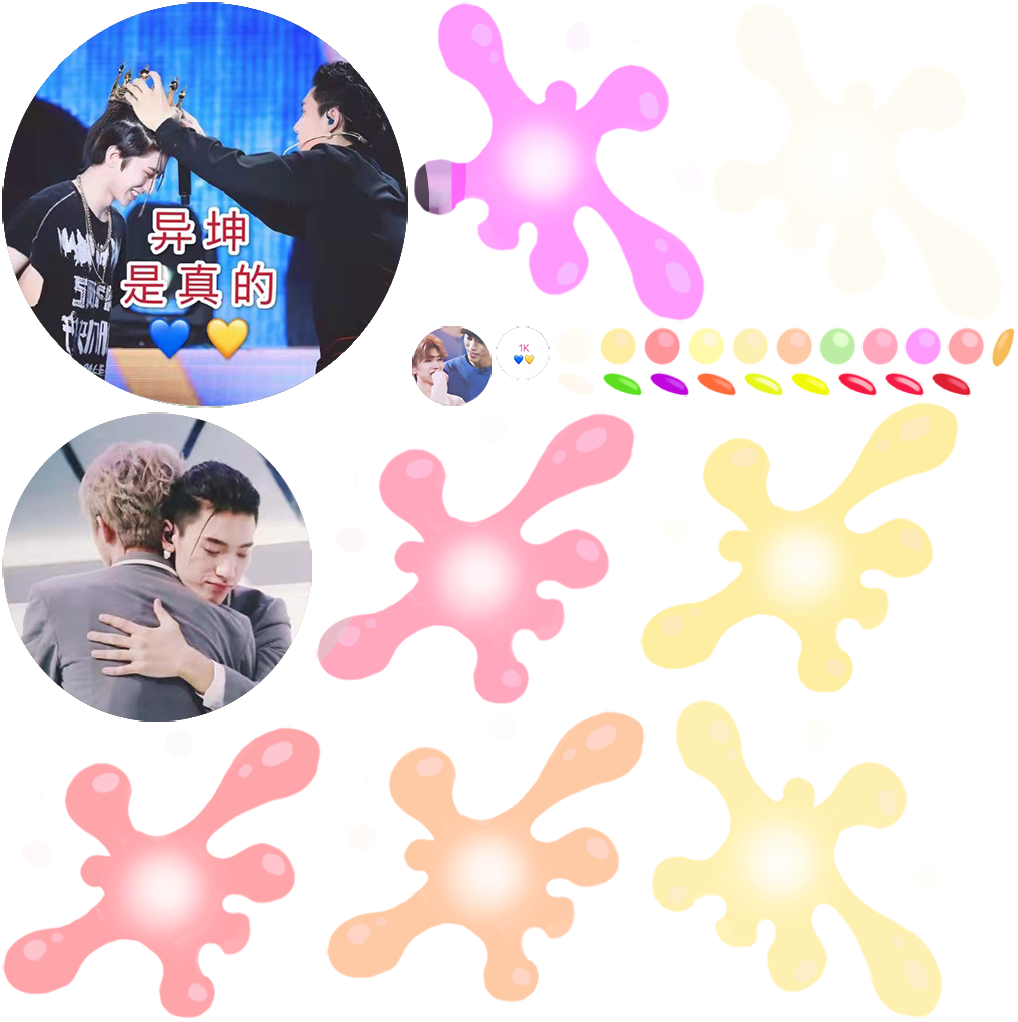
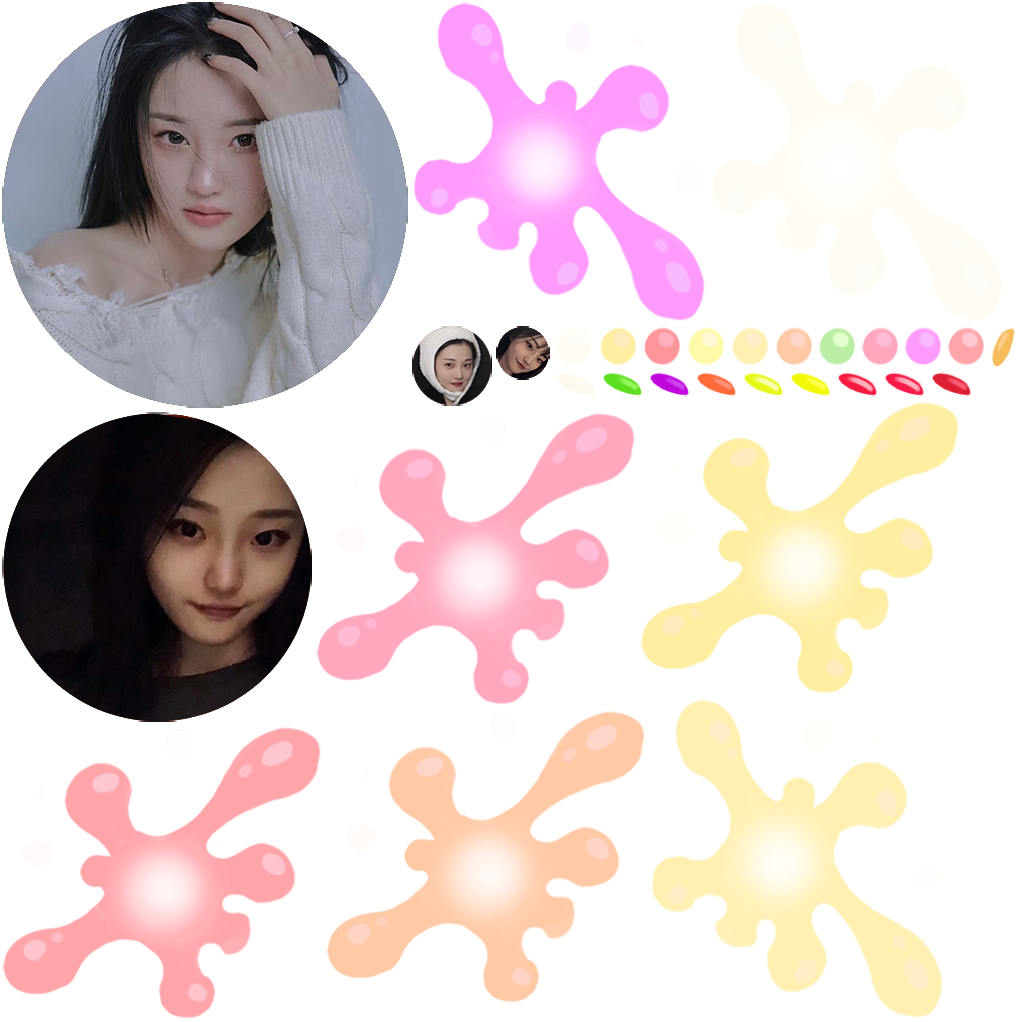
nitial commit

Changed region(s): [[0.0, 0.0, 0.4568, 0.728], [0.3959, 0.3033, 0.5481, 0.3943]]

diff --git a/index.html b/index.html
@@ -4,7 +4,7 @@
 <head>
     <meta charset="utf-8">
 
-    <title>异坤是真的</title>
+    <title>合成xuaxua子</title>
 
     <!--http://www.html5rocks.com/en/mobile/mobifying/-->
     <meta name="viewport" content="width=device-width,user-scalable=no,initial-scale=1, minimum-scale=1,maximum-scale=1" />
@@ -109,7 +109,7 @@
             //        console.log("window.navigator.language",window.navigator.language);
 
             if (window.navigator.language == "zh-CN" || window.navigator.language == "zh-cn") {
-                document.title = "异坤是真的";
+                document.title = "合成xuaxua子";
             } 
 
 
